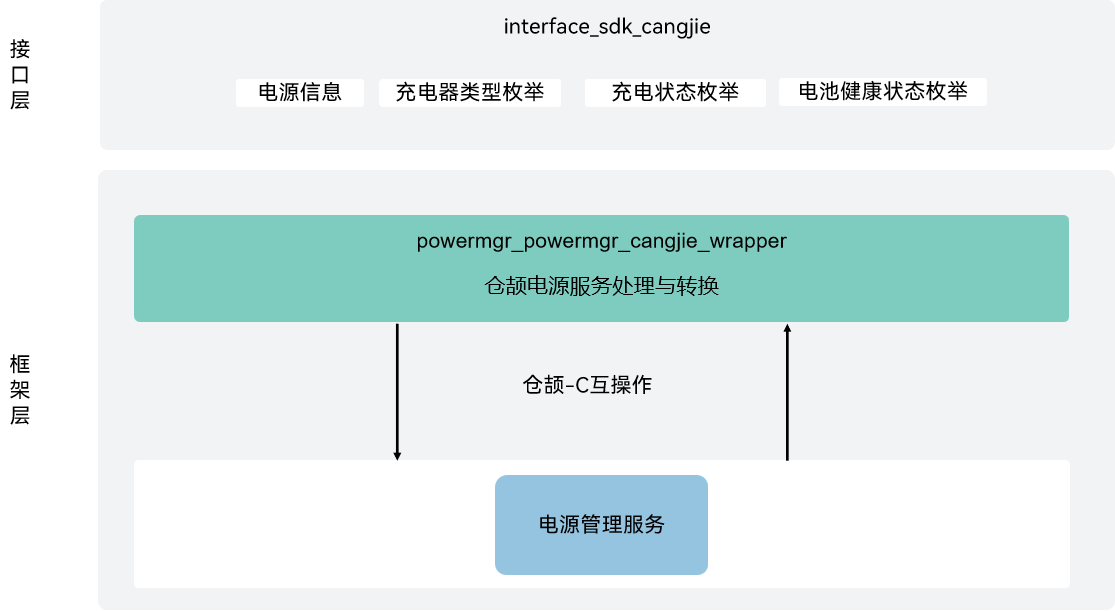
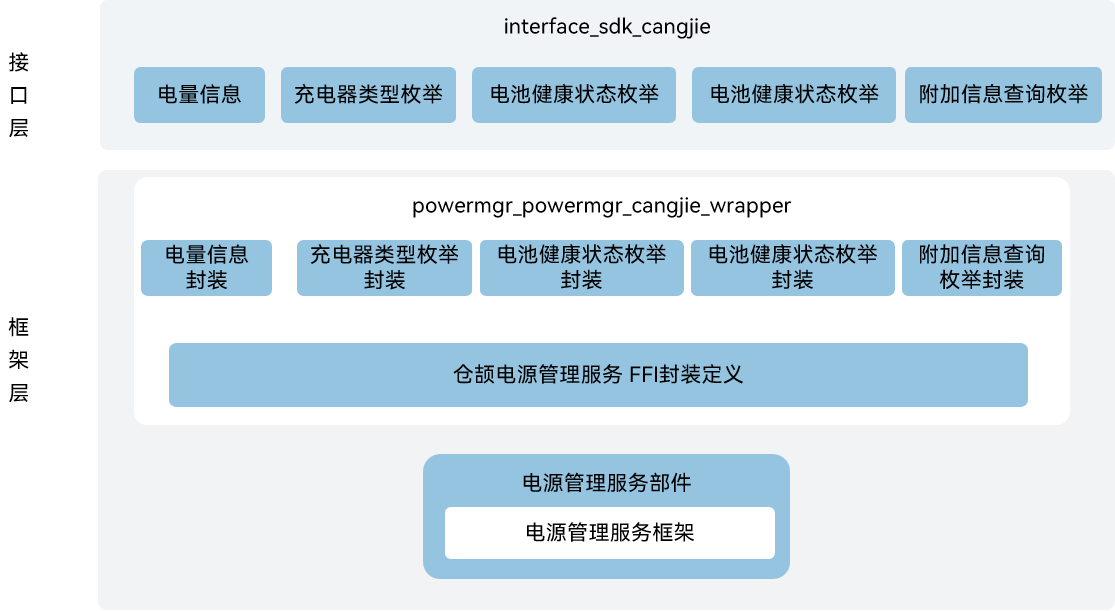
fix

diff --git a/README.md b/README.md
@@ -4,37 +4,43 @@
 
 The powermgr_cangjie_wrapper is a Cangjie API encapsulated on OpenHarmony based on the capabilities of the power management subsystem. 
 
+The currently open position service Cangjie interface supports only standard devices.
+
 **Figure  1** powermgr_cangjie_wrapper architectur
 
 ![](figures/powermgr_cangjie_wrapper_architecture_en.png)
+
+As shown in the architecture diagram:
+- Power Information: A method to provide power information.
+- Charger Type Enumeration: An enumeration representing the types of chargers.
+- Battery Health Status Enumeration: An enumeration representing the health status of the battery.
+- Battery Health Status Enumeration: An enumeration representing the health status of the battery (duplicate entry).
+- Additional Information Query Enumeration: An enumeration for querying additional information on general events.
+- Cangjie Location Service FFI Encapsulation Definition: Responsible for defining the C interoperability interface for Cangjie, to implement Cangjie's power management service capabilities.
+- Power Management Service Framework: Responsible for providing basic functionalities of the power management service, encapsulating the C interface for interoperability with Cangjie.
 
 ## Directory Structure
 
 ```
 base/powermgr/powermgr_cangjie_wrapper
-├── ohos             # Cangjie Power Management code
 ├── figures          # architecture pictures
+└── ohos             # Cangjie Power Management code
+    └── battery_info
 ```
-
-## Constraints
-
-The currently open position service Cangjie interface supports only standard devices.
 
 ## Usage
 
 The following power service functions are provided:
-
 - Battery Service: Supports charging and discharging, and displays information on battery and charging status.
 
-Compared to Arkts, the following functions are currently not supported:
-
-- System restarting: restarts or shuts down the system.
-- System power management: manages the system power status and running lock.
-- Display-related power consumption adjustment: adjusts the backlight brightness based on the ambient light and turns off the screen based on the proximity light.
-- Power Saving Mode: Provides a low-power operating mode without compromising essential functions and performance.
-- Battery Service: Battery status detection, including status updates and reporting, as well as charging during shutdown.
-- Temperature Control: Manages applications, SoC, and peripherals when the device temperature reaches a certain level to limit the rise in temperature.
-- Power consumption statistics: collects statistics on the power consumption of software, hardware, and a single application.
+Compared to ArkTS, the following functions are currently not supported:
+- System restarting: restarts or shuts down the system
+- System power management: manages the system power status and running lock
+- Display-related power consumption adjustment: adjusts the backlight brightness based on the ambient light and turns off the screen based on the proximity light
+- Power Saving Mode: Provides a low-power operating mode without compromising essential functions and performance
+- Battery Service: Battery status detection, including status updates and reporting, as well as charging during shutdown
+- Temperature Control: Manages applications, SoC, and peripherals when the device temperature reaches a certain level to limit the rise in temperature
+- Power consumption statistics: collects statistics on the power consumption of software, hardware, and a single application
 - Battery service for mini-, small-, and standard-system devices
 - Power management service for mini-, small-, and standard-system devices
 

diff --git a/README_zh.md b/README_zh.md
@@ -8,38 +8,40 @@
 
 ![](figures/powermgr_cangjie_wrapper_architecture.png)
 
-电源管理仓颉接口当前由4个部分组成：
+如架构图所示：
 
-- 电源信息
-- 充电器类型枚举
-- 充电状态枚举
-- 电池健康状态枚举
+- 电量信息：提供电量信息的方法
+- 充电器类型枚举：提供充电器类型的枚举
+- 电池健康状态枚举：提供电池健康状态的枚举
+- 电池健康状态枚举：提供电池健康状态的枚举
+- 附加信息查询枚举：提供通用事件附加信息查询的枚举
+- 仓颉位置服务 FFI封装定义：负责定义C互操作仓颉接口，用于实现仓颉电源管理服务服务能力
+- 电源管理服务框架：负责提供电源管理服务基本功能，封装C接口提供给仓颉进行互操作
 
 ## 目录
 
 ```
 base/powermgr/powermgr_cangjie_wrapper
-├── ohos                # 仓颉电源管理接口实现
-└── figures             # 存放README中的架构图
+├── figures             # 存放README中的架构图
+└── ohos                # 仓颉电源管理接口实现
+    └── battery_info
 ```
 
 ## 使用说明
 
 提供了以下电源服务功能：
-
 - 电池服务：支持充放电、电池和充电状态的信息显示。
 
 与ArkTS相比，暂不支持以下功能：
-
 - 重启服务：系统重启和下电。
-- 系统电源管理服务：系统电源状态管理和休眠运行锁管理。
-- 显示相关的能耗调节：包括根据环境光调节背光亮度，和根据接近光亮灭屏。
-- 省电模式 ：在不损害主要功能和性能的前提下，提供一种低功耗操作模式 。
-- 电池服务：电池状态检测，包括状态的更新和上报，还包括关机充电。
-- 温控 ：在设备温度到一定程度之后对应用、SoC、外设进行管控，限制温升 。
-- 耗电统计： 主要包括软件耗电和硬件耗电统计，以及单个应用的耗电统计 。
-- 轻设备电池服务。
-- 轻设备电源管理服务。
+- 系统电源管理服务：系统电源状态管理和休眠运行锁管理
+- 显示相关的能耗调节：包括根据环境光调节背光亮度，和根据接近光亮灭屏
+- 省电模式 ：在不损害主要功能和性能的前提下，提供一种低功耗操作模式
+- 电池服务：电池状态检测，包括状态的更新和上报，还包括关机充电
+- 温控 ：在设备温度到一定程度之后对应用、SoC、外设进行管控，限制温升
+- 耗电统计： 主要包括软件耗电和硬件耗电统计，以及单个应用的耗电统计
+- 轻设备电池服务
+- 轻设备电源管理服务
 
 电源服务相关API请参见[ohos.battery_info](https://gitcode.com/openharmony-sig/arkcompiler_cangjie_ark_interop/blob/master/doc/API_Reference/source_zh_cn/apis/BasicServicesKit/cj-apis-battery_info.md)。
 
